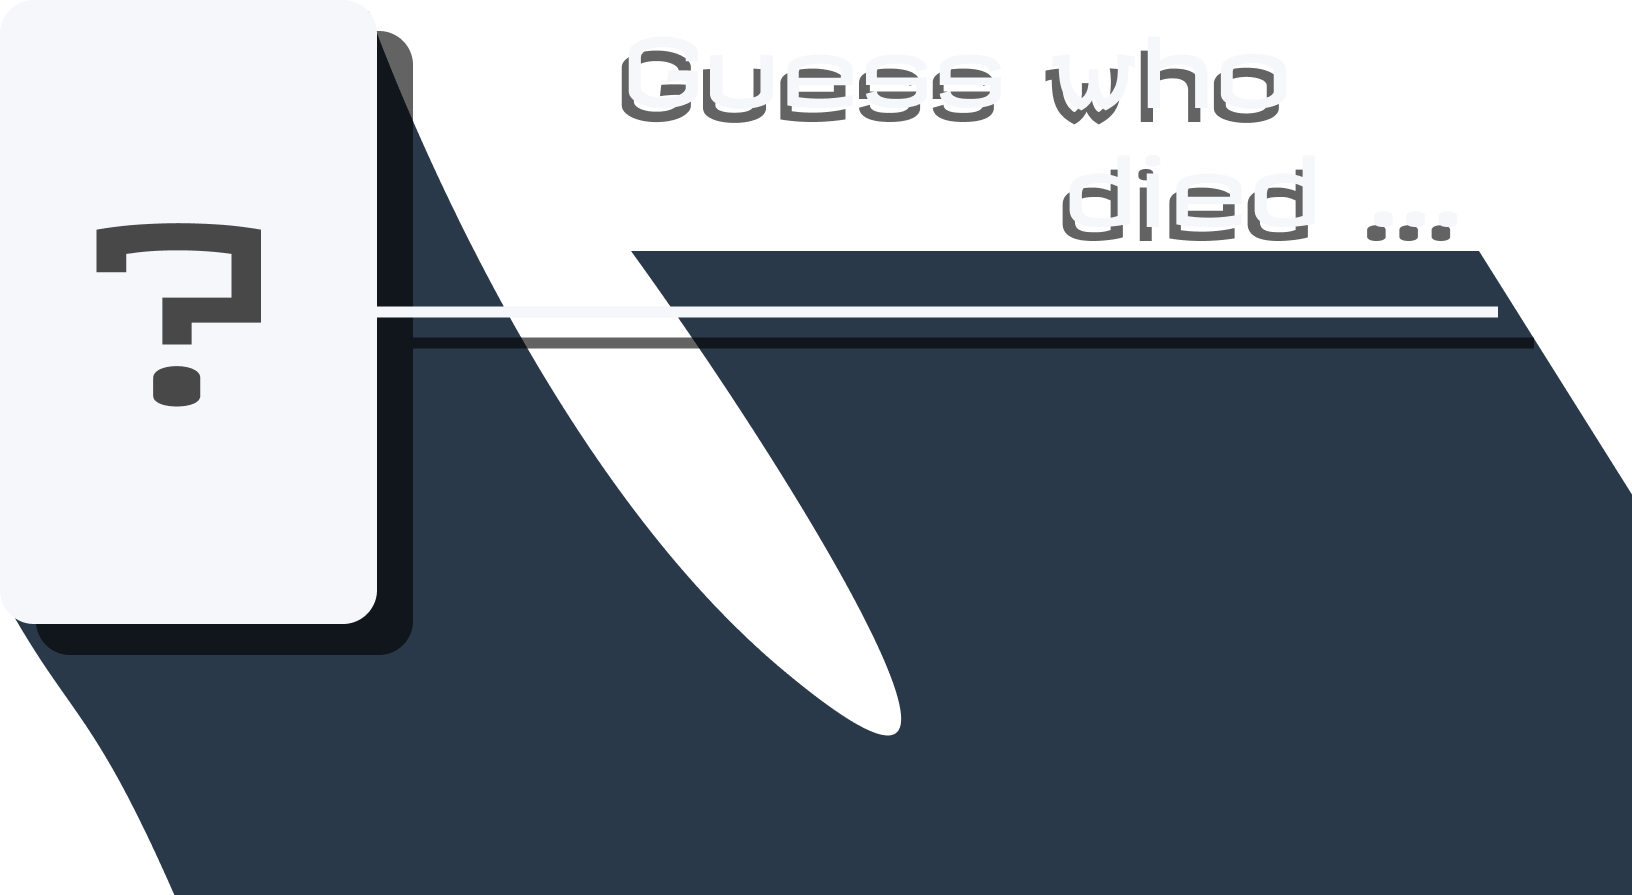
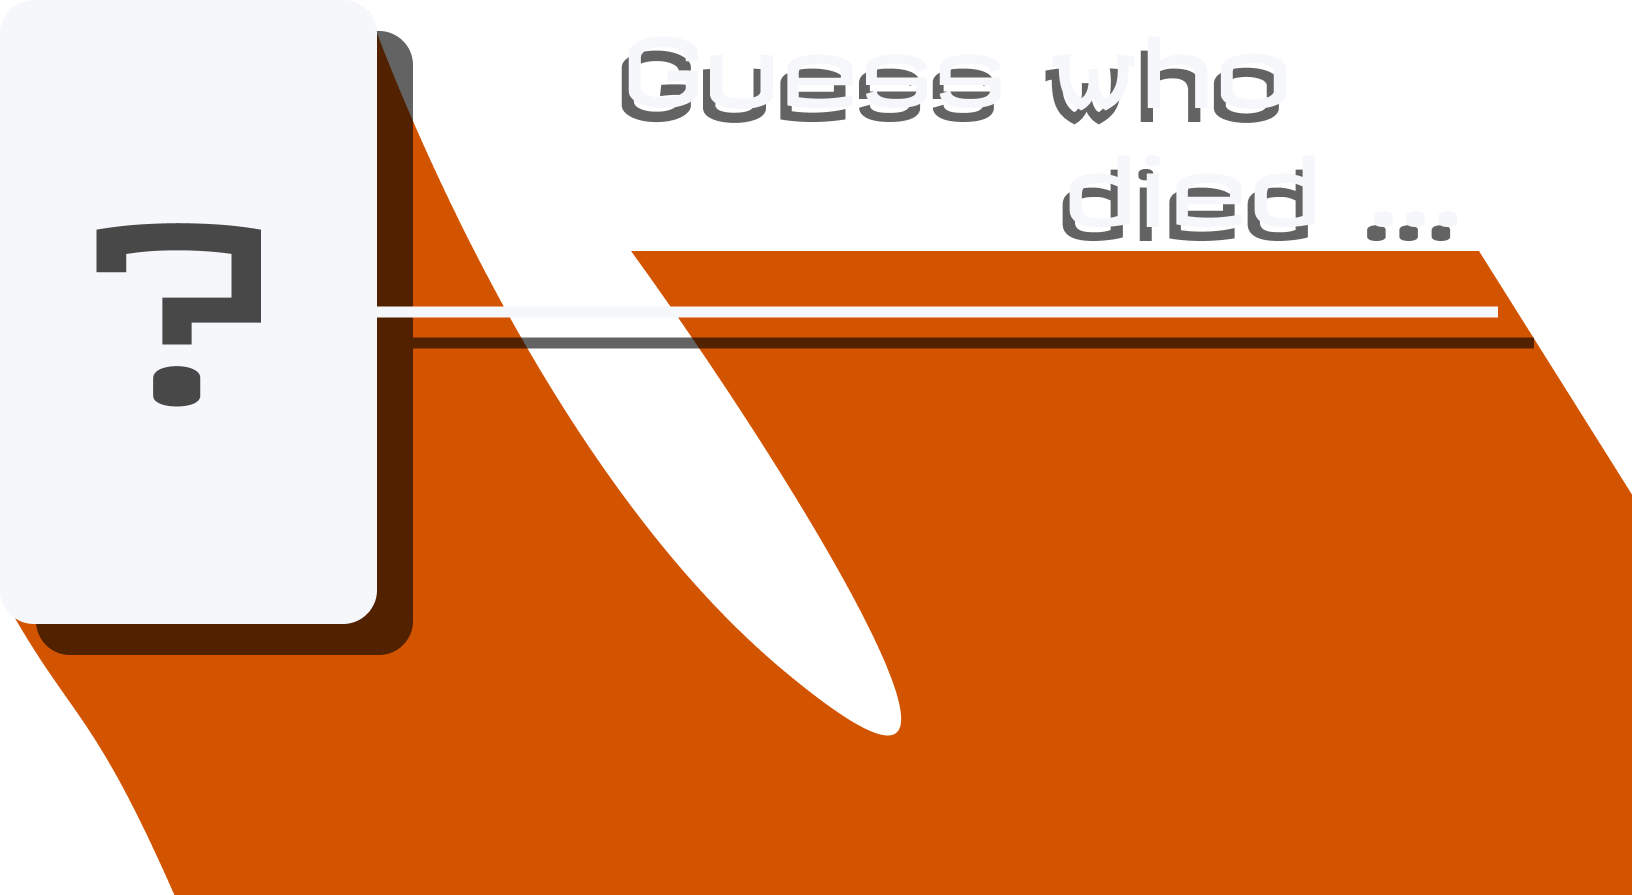
Death screen smartTv day ready

diff --git a/frontend/src/app/pages/smart-tv/smart-tv.component.html b/frontend/src/app/pages/smart-tv/smart-tv.component.html
@@ -45,10 +45,28 @@
       <img class="down_vector" src="/assets/smart_tv/{{round_title_path}}.png" alt="Title of round">
     </div>
   </div>
-  <div class="deathReveal" *ngIf="deathRevealing != 0">
-    <img *ngIf="deathRevealing == 1" [attr.src]="isDay()? '/assets/smart_tv/deathReveal1Day.png' : '/assets/smart_tv/deathReveal1Night.png'" alt="">
-    <div class="deathReveal2" *ngIf="deathRevealing == 2">
-      <img [attr.src]="isDay()? '/assets/smart_tv/deathReveal2Day.png' : '/assets/smart_tv/deathReveal1Night.png'" alt="">
+  <div class="deathReveal" *ngIf="deathRevealing != 0"
+    [style.position]="(deathRevealing == 1) ? 'absolute' : 'relative'">
+    <img *ngIf="deathRevealing == 1"
+      [attr.src]="isSecretVoting() ? '/assets/smart_tv/deathReveal1Day.png' : '/assets/smart_tv/deathReveal1Night.png'"
+      alt="">
+    <div *ngIf="deathRevealing == 2" style="position:relative;">
+      <img
+        [attr.src]="isSecretVoting() ? '/assets/smart_tv/deathReveal2Day.png' : '/assets/smart_tv/deathReveal2Night.png'"
+        id="death_background" alt="">
+      <div class="dead_container">
+        <img class="deadIcon" src="/assets/smart_tv/{{dead_path}}" alt="Icon of dead player">
+        <div class="deadReveal">{{dead}}<br />is out of the game</div>
+      </div>
+      <div [ngClass]="{hide: !isSecretVoting()}">
+        <div class="deadReveal2">{{dead}} was...</div>
+        <div class="row">
+          <div class="roleDead">A {{role_of_dead}}</div>
+          <div class="cardDead">
+            <img class="cardOfDead" src="/assets/smart_tv/card_{{role_of_dead}}.png" alt="Card Of Dead">
+          </div>
+        </div>
+      </div>
     </div>
   </div>
   <div class="gameEnd" *ngIf="gameEnded()">

diff --git a/frontend/src/app/pages/smart-tv/smart-tv.component.ts b/frontend/src/app/pages/smart-tv/smart-tv.component.ts
@@ -19,6 +19,10 @@ export class SmartTvComponent implements OnInit {
   suspects: UserModel[] = null; //can change
   shouldDie: UserModel;
   deathRevealing: number = 0;
+  dead: string;
+  dead_path: string;
+  role_of_dead: string;
+  card_of_dead: string;
 
   phase_title: string; // html stuff that are for some reason here
   next_title: string;
@@ -72,6 +76,7 @@ export class SmartTvComponent implements OnInit {
     await this.playAudioPromise('/assets/sounds/drumroll.wav');
     // await this.timeout(2000);
     this.deathRevealing = 2;
+    //await this.timeout(100000000);
     await this.timeout(4000);
     this.deathRevealing = 0;
   }
@@ -120,6 +125,15 @@ export class SmartTvComponent implements OnInit {
       this.eventable = false;
       console.log("User Died");
       this.aPlayerWasKilled(msg.message);
+      this.dead = msg.message.name;
+      console.log(msg.message.avatar_path);
+      this.dead_path = msg.message.avatar_path.substring(7);
+      this.role_of_dead = msg.message.role;
+      if(!this.isDay()){
+        await this.timeout(5000);
+        this.revealDeath(msg.message);
+        return;
+      }
       this.revealDeath(msg.message);
       await this.timeout(800);
       // this.eventable = true;

diff --git a/frontend/src/app/pages/smart-tv/smart-tv.component.scss b/frontend/src/app/pages/smart-tv/smart-tv.component.scss
@@ -48,8 +48,8 @@
 .cardicon {
   max-height: 90%;
   max-width: 90%;
-  width:auto; 
-  height:auto;
+  width: auto;
+  height: auto;
   margin: auto;
 }
 
@@ -307,7 +307,66 @@
 }
 
 .deathReveal {
-  position: absolute;
   bottom: 0;
   right: 0;
+  color: #F5F7FA;
+}
+
+#death_background {
+  z-index: 1;
+}
+
+.dead_container {
+  z-index: 2;
+}
+
+.deadIcon {
+  position: absolute;
+  left: 102px;
+  top: 100px;
+}
+
+.deadReveal {
+  position: absolute;
+  left: 392px;
+  top: 115px;
+
+  font-style: normal;
+  font-weight: normal;
+  font-size: 96px;
+  line-height: 100px;
+}
+
+.deadReveal2 {
+  z-index: 2;
+  position: absolute;
+  width: 741px;
+  height: 151px;
+  left: 156px;
+  top: 464px;
+  font-size: 85px;
+}
+
+.roleDead {
+  text-transform: uppercase;
+  color: #E74C3C;
+  font-style: normal;
+  font-weight: normal;
+  line-height: 144px;
+
+  font-size: 85px;
+  position: absolute;
+  width: 790px;
+  text-align: center;
+  left: 511px;
+  top: 785px;
+}
+
+.cardOfDead {
+  position: absolute;
+  width: 320px;
+  height: 350px;
+  z-index: 2;
+  left: 1313px;
+  top: 545px;
 }

diff --git a/backend/src/api/v1/state-machine/state-machine.controller.ts b/backend/src/api/v1/state-machine/state-machine.controller.ts
@@ -68,7 +68,8 @@ export class StateMachineController {
                 break;
             case Round.Secret_Voting:
                 await votingcontroller.whoToKillDay(); //who the players killed
-                await delay(10000); // delay to show the "animation" 
+               // await delay(100000000); // delay to show the "animation" 
+               await delay(10000);
                 await votingcontroller.gameEnded();
                 round = Round.Mafia_Voting;
                 break;
@@ -85,7 +86,7 @@ export class StateMachineController {
             case Round.Barman:
                 await votingcontroller.whoToKillNight(); // who the mafia killed
                 await votingcontroller.gameEnded();
-                await delay(10000); // delay to show the "animation" 
+                // await delay(15000); // delay to show the "animation" 
                 round = Round.Open_Ballot
                 roundCounter++;
                 console.log(roundCounter);
